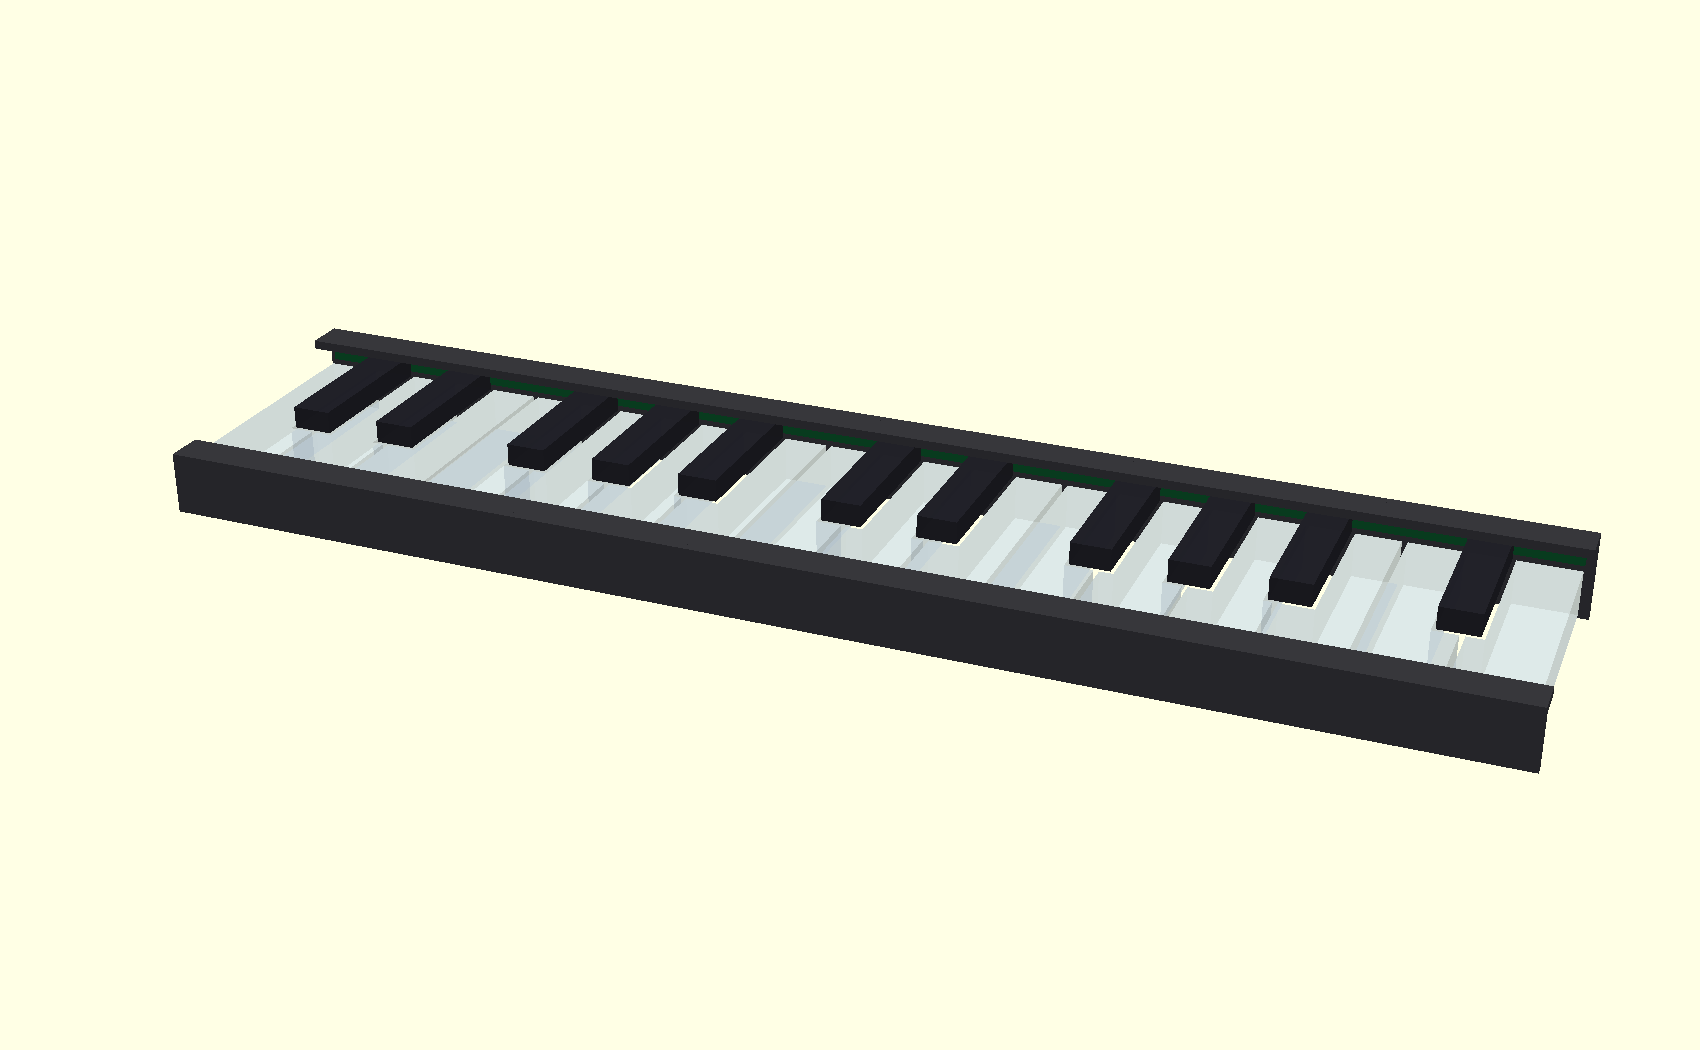
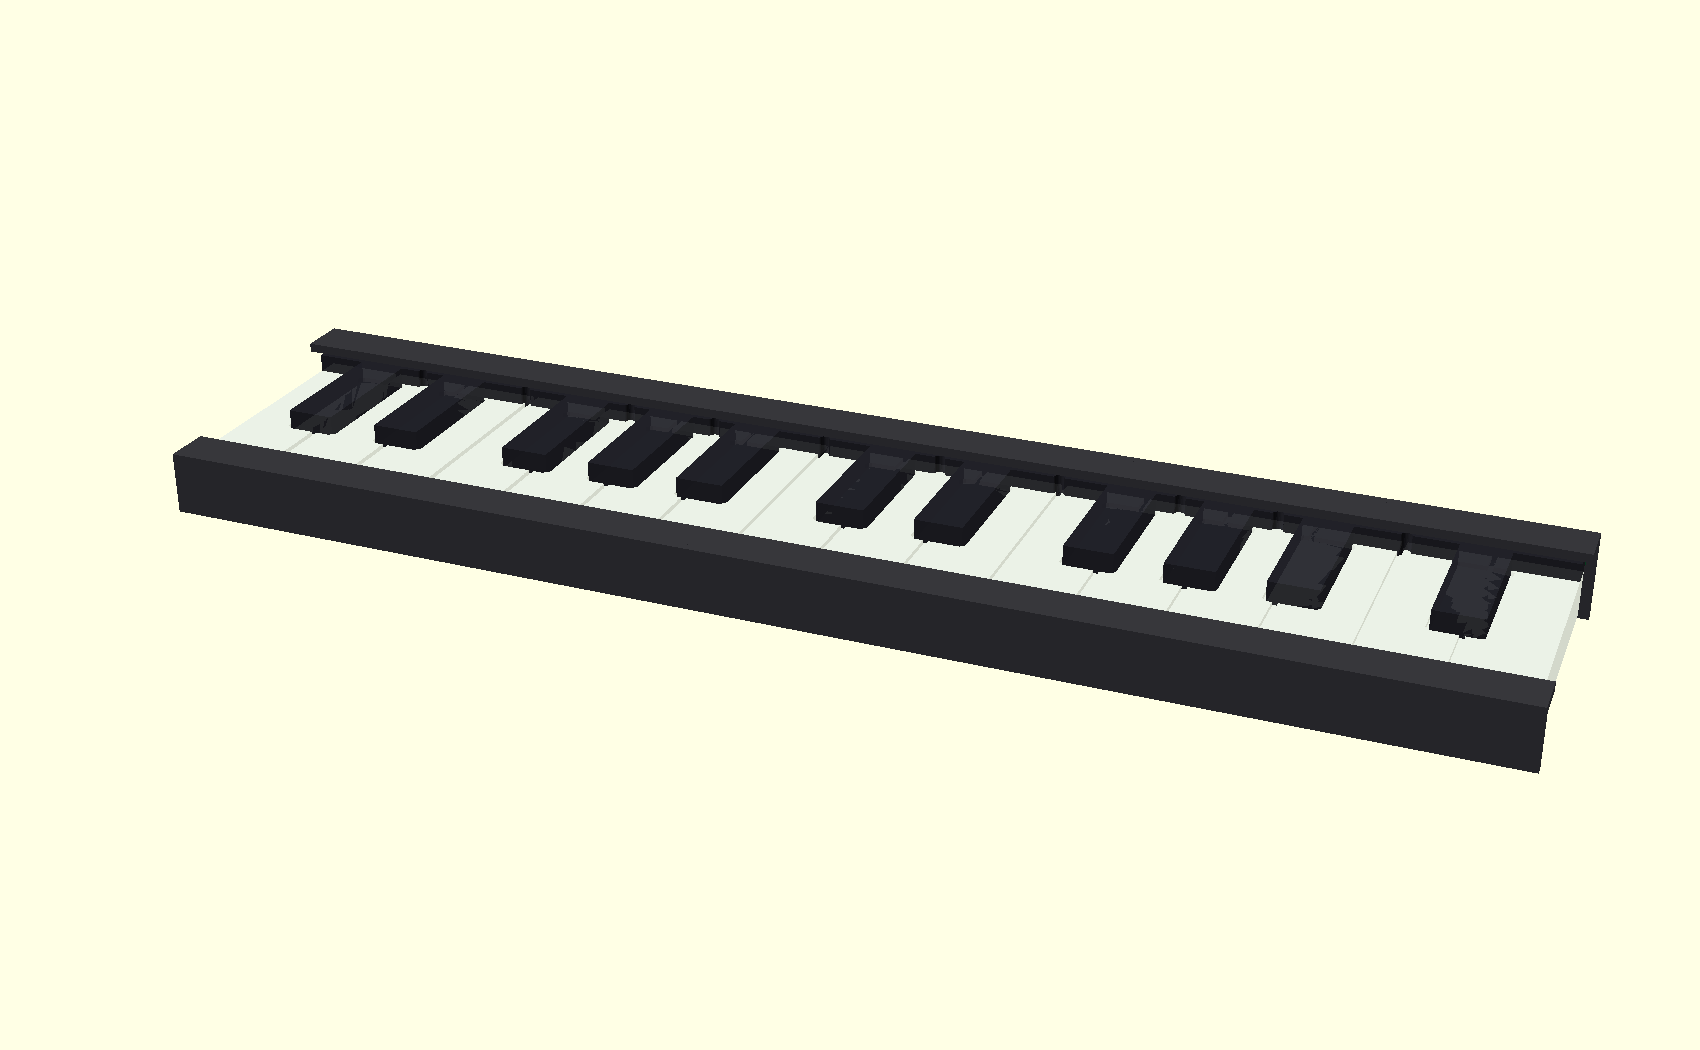
Méca : retour au bloc plein — l'électrode sépare les touches, pas la matière
Erreur corrigée : le plexi était découpé sous les noires « pour séparer les
électrodes ». Sur un clavier capacitif, ce qui sépare les touches c'est le dessin
de l'ELECTRODE et les gardes ; le plexi n'est que diélectrique et guide de
lumière, et rien ne bouge. La découpe ne créait donc que des porte-à-faux et des
amorces de fissure dans une matière cassante.

Référence : l'Arturia MicroFreak fait exactement cela — clavier capacitif plat,
blanches séparées par de simples reliefs peu profonds, noires sur une couche
légèrement surélevée, aftertouch par mesure de la surface de contact.

- separation = "rainure" (défaut) : bloc PLEIN, rainures de 1 mm en face avant.
  Le creux sert en même temps de logement de positionnement pour la plaque des
  noires, qui s'auto-aligne au collage et garde 4 mm de relief.
- separation = "decoupe" : conservé, mais ne se justifie que si les essais
  montrent une pollution lumineuse rédhibitoire — à MESURER avant de s'y engager.
- SKILL : nouvel article 2, ne pas confondre géométrie de la pièce et géométrie
  de l'électrode ; partir de la forme la plus solide et n'enlever que ce qu'une
  fonction réclame.

Changed region(s): [[0.1247, 0.3352, 0.9353, 0.6705]]

diff --git a/.claude/skills/conception-meca/SKILL.md b/.claude/skills/conception-meca/SKILL.md
@@ -28,7 +28,30 @@ C'est le critère qui prime, et il s'applique **pendant** le dessin, pas en rele
 - Si la solidité et l'optique s'opposent (chants polis, épaisseurs), **le dire explicitement**
   au lieu d'arbitrer en silence.
 
-## 2. Vérifier les interférences avant d'annoncer un empilement
+## 2. Ne pas confondre la géométrie de la pièce et celle de l'électrode
+
+**Erreur commise** : avoir découpé le plexi sous les touches noires « pour séparer les
+électrodes », créant porte-à-faux et amorces de fissure dans une matière cassante.
+
+Sur un clavier **capacitif**, ce qui sépare les touches c'est le **dessin de l'électrode** et
+les **gardes à la masse**. Le plexi n'est que diélectrique et guide de lumière. **Rien ne
+bouge** : il n'y a donc aucune raison mécanique de le découper.
+
+**Avant de retirer de la matière, se demander quelle fonction l'exige.** Une découpe se
+justifie par un mouvement, un passage, ou une isolation optique **mesurée** — pas par une
+séparation qui se règle au niveau de l'électrode.
+
+Référence : l'Arturia MicroFreak est un clavier capacitif **plat**, blanches séparées par de
+simples reliefs peu profonds (« shallow ridges »), noires portées par une couche légèrement
+surélevée, aftertouch polyphonique obtenu en mesurant la surface de contact du doigt.
+([Sound On Sound](https://www.soundonsound.com/reviews/arturia-microfreak),
+[MusicRadar](https://www.musicradar.com/reviews/arturia-microfreak))
+
+> Partir de la forme la plus **solide** (le bloc plein) et n'enlever que ce qu'une fonction
+> réclame. On était parti d'un bloc ; on en est sorti pour un problème de pollution lumineuse
+> **non encore mesuré**. Mesurer d'abord, découper ensuite.
+
+## 3. Vérifier les interférences avant d'annoncer un empilement
 
 Deux pièces ne peuvent pas occuper le même volume. **Erreur commise** : les caches du clavier
 étaient modélisés en blocs pleins traversant les touches — ils les masquaient entièrement.
@@ -37,7 +60,7 @@ Un cache, un capot, une bordure sont des **profilés** (L, U), pas des parallél
 Avant d'affirmer qu'un empilement tient : passer chaque paire de pièces voisines en revue,
 et vérifier que les jeux existent réellement dans le modèle.
 
-## 3. Regarder le rendu avant d'affirmer ce qu'il montre
+## 4. Regarder le rendu avant d'affirmer ce qu'il montre
 
 **Erreur commise plusieurs fois** : rendus annoncés comme probants alors qu'ils étaient vides,
 mal cadrés, ou que les pièces transparentes y étaient invisibles.
@@ -48,7 +71,7 @@ mal cadrés, ou que les pièces transparentes y étaient invisibles.
 - Si une pièce est faite pour être cachée (cache, PCB de tranche), **aucune vue assemblée ne la
   montrera** — prévoir une vue dédiée avec les masquants désactivés, ou une coupe.
 
-## 4. Cotes sourcées, cotes estimées
+## 5. Cotes sourcées, cotes estimées
 
 - Sur toute grandeur **normalisée ou documentée**, chercher la référence sur le web **avant**
   de modéliser. **Erreur commise** : plusieurs messages perdus à raisonner de mémoire sur la
@@ -59,7 +82,7 @@ mal cadrés, ou que les pièces transparentes y étaient invisibles.
   à la base. Sur une façade plate, c'est la base qui compte. Prendre la mauvaise donne des
   proportions visiblement fausses.
 
-## 5. La fabrication fait partie du dessin
+## 6. La fabrication fait partie du dessin
 
 Sortir les conséquences de fabrication **dans le même mouvement** que la géométrie, pas trois
 messages plus tard. **Erreur commise** : la longueur de coupe et l'état de chant sont arrivés
@@ -75,7 +98,7 @@ après coup — et ont changé le procédé, puis le nombre de pièces.
 - **ce qui reste faisable à la main** : la gravure au dos veut au contraire une surface
   diffusante, donc Dremel.
 
-## 6. Ce que l'utilisateur sait et que je ne peux pas chercher
+## 7. Ce que l'utilisateur sait et que je ne peux pas chercher
 
 Patrice démonte des claviers pour les réparer et conçoit de la lutherie numérique. Son savoir
 porte sur les **modes de défaillance réels**, ce qu'un atelier accepte de faire, et ce qu'un
